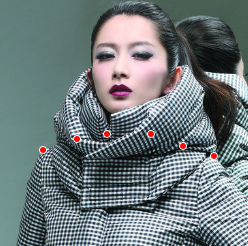
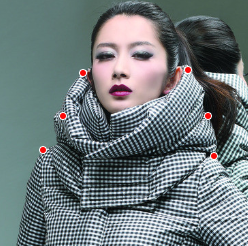
renew tutorial

diff --git a/public/tutorial.html b/public/tutorial.html
@@ -121,7 +121,7 @@
 					<div class="ui positive message">
 						<div class="header">Notice： Some triky tasks</div>
 						<p>
-						Models with winter clothes(fur collar, overcoat or scraf) is really hard to label.
+						Models with winter clothes(fur collar, overcoat or scraf) is really hard to label. And there are also models whose position is a little bit slope.
 						</p>
 						<p>
 						You shall find the <code>real shoulders </code>of models. Here are some examples:
@@ -136,9 +136,9 @@
 								<div class="content">
 									<div class="header">Winter coat</div>
 								</div>
-								<div class="ui green bottom attached button">
-									<i class="checkmark icon"></i>
-									Good Label
+								<div class="ui red bottom attached button">
+									<i class="ban icon"></i>
+									Wrong Label
 								</div>
 							</div>
 						</div>
@@ -171,7 +171,96 @@
 							</div>
 						</div>
 					</div>
-					
+
+					<div class="ui three column grid">
+						<div class="column">
+							<div class="ui card">
+								<div class="image">
+									<img src="images/lean1.PNG">
+								</div>
+								<div class="content">
+									<div class="header">Lean position</div>
+								</div>
+								<div class="ui green bottom attached button">
+									<i class="checkmark icon"></i>
+									Good Label
+								</div>
+							</div>
+						</div>
+						<div class="column">
+							<div class="ui card">
+								<div class="image">
+									<img src="images/lean2.PNG">
+								</div>
+								<div class="content">
+									<div class="header">Lean position</div>
+								</div>
+								<div class="ui green bottom attached button">
+									<i class="checkmark icon"></i>
+									Good Label
+								</div>
+							</div>
+						</div>
+						<div class="column">
+							<div class="ui card">
+								<div class="image">
+									<img src="images/lean3.PNG">
+								</div>
+								<div class="content">
+									<div class="header">Lean position</div>
+								</div>
+								<div class="ui green bottom attached button">
+									<i class="checkmark icon"></i>
+									Good Label
+								</div>
+							</div>
+						</div>
+					</div>
+
+					<div class="ui three column grid">
+						<div class="column">
+							<div class="ui card">
+								<div class="image">
+									<img src="images/hand2.PNG">
+								</div>
+								<div class="content">
+									<div class="header">Hands up</div>
+								</div>
+								<div class="ui green bottom attached button">
+									<i class="checkmark icon"></i>
+									Good Label
+								</div>
+							</div>
+						</div>
+						<div class="column">
+							<div class="ui card">
+								<div class="image">
+									<img src="images/hand3.PNG">
+								</div>
+								<div class="content">
+									<div class="header">Hands up</div>
+								</div>
+								<div class="ui green bottom attached button">
+									<i class="checkmark icon"></i>
+									Good Label
+								</div>
+							</div>
+						</div>
+						<div class="column">
+							<div class="ui card">
+								<div class="image">
+									<img src="images/wrong.PNG">
+								</div>
+								<div class="content">
+									<div class="header">Random Labeling</div>
+								</div>
+								<div class="ui red bottom attached button">
+									<i class="ban icon"></i>
+									Bad Label
+								</div>
+							</div>
+						</div>
+					</div>
 				</div>
 				<br>
 				<div class="row">
@@ -207,7 +296,7 @@
 									<img src="images/trash4.PNG">
 								</div>
 								<div class="content">
-									<div class="header">Sideways</div>
+									<div class="header">Totally sideways</div>
 									<div class="description">
 										Do not label when you cannot see both sides of the shoulder.
 									</div>
